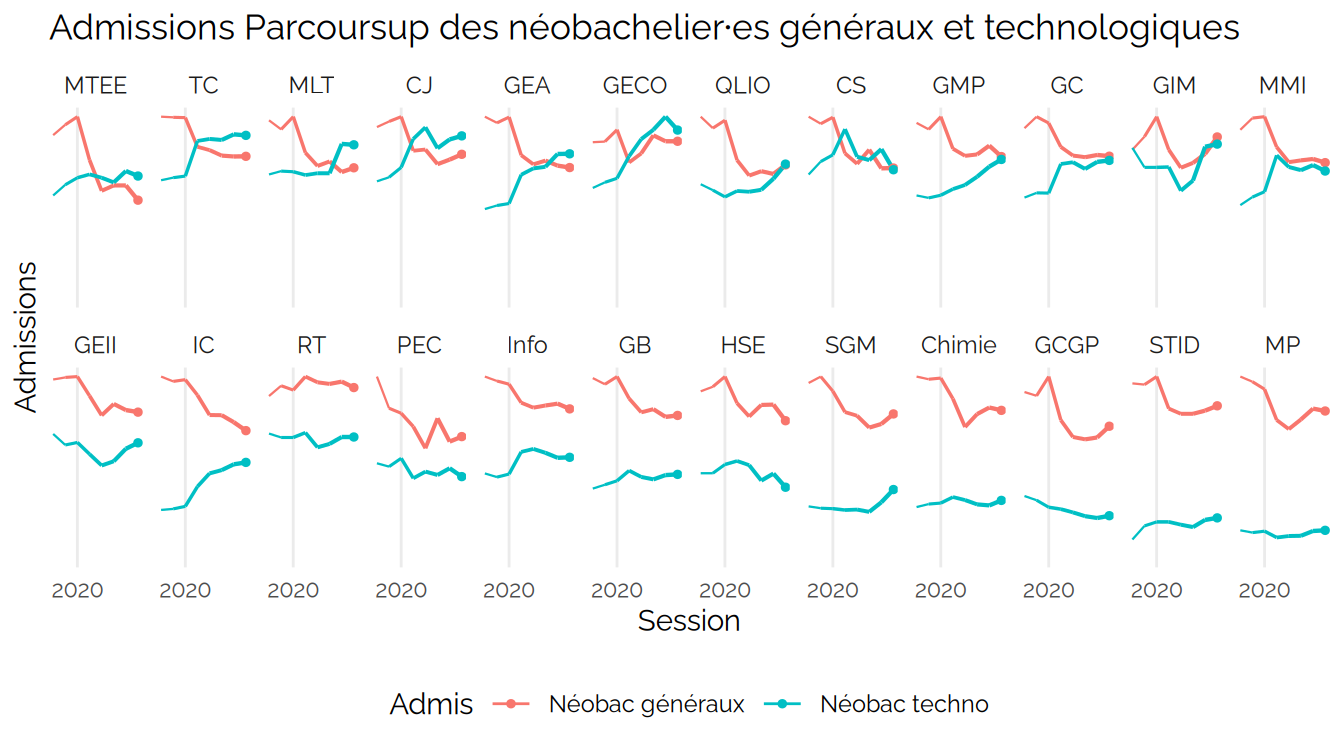
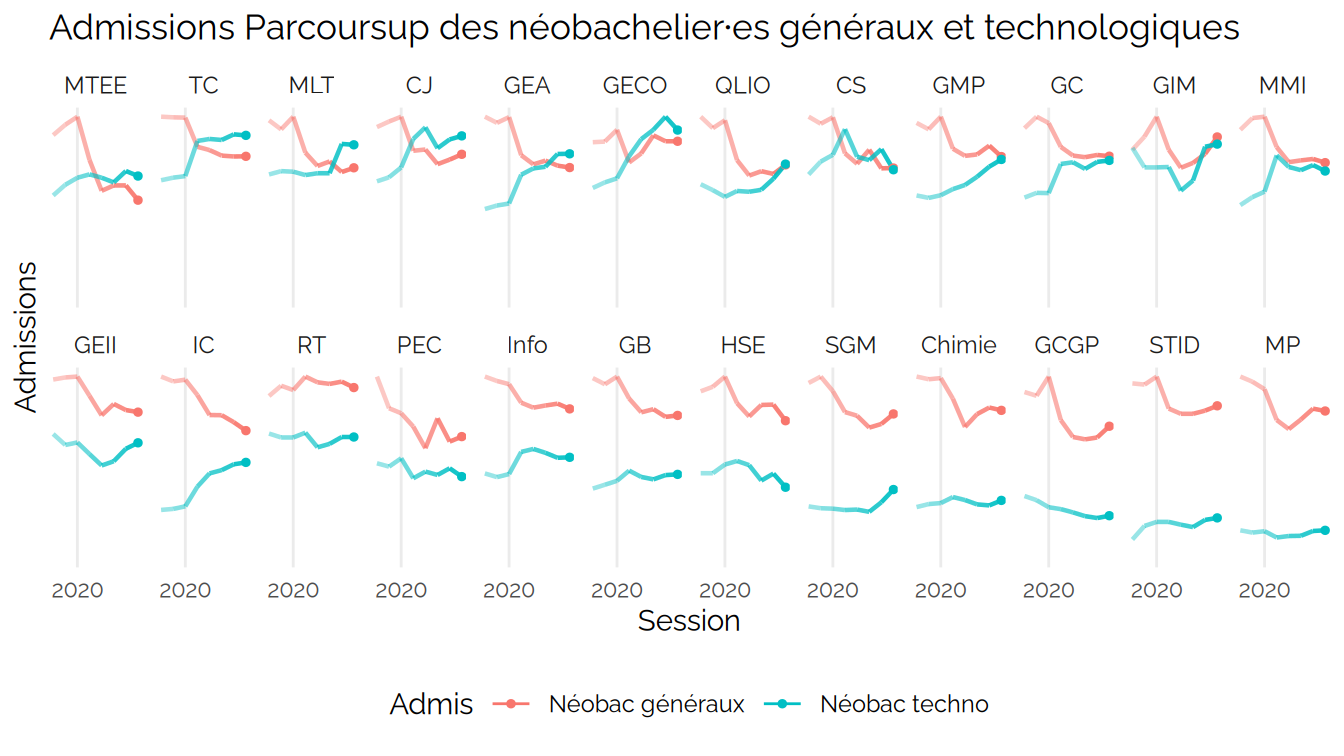
BUT

diff --git a/parcoursup/BUT.md b/parcoursup/BUT.md
@@ -1,7 +1,7 @@
 IUT DUT/BUT
 ================
 CPESR
-2026-06-11
[phone redacted]
 
 ## Données
 
@@ -78,3 +78,59 @@ CPESR
 <img src="BUT_files/figure-gfm/unnamed-chunk-8-1.png" width="672" />
 
 <img src="BUT_files/figure-gfm/unnamed-chunk-10-1.png" width="672" />
+
+## Places vs. Admis
+
+<img src="BUT_files/figure-gfm/unnamed-chunk-11-1.png" width="672" />
+
+<img src="BUT_files/figure-gfm/unnamed-chunk-12-1.png" width="672" />
+
+<img src="BUT_files/figure-gfm/unnamed-chunk-13-1.png" width="672" />
+
+<img src="BUT_files/figure-gfm/unnamed-chunk-14-1.png" width="672" />
+
+<img src="BUT_files/figure-gfm/unnamed-chunk-15-1.png" width="672" />
+
+<img src="BUT_files/figure-gfm/unnamed-chunk-16-1.png" width="672" />
+
+## Taux féminité
+
+<img src="BUT_files/figure-gfm/unnamed-chunk-17-1.png" width="672" />
+
+<img src="BUT_files/figure-gfm/unnamed-chunk-18-1.png" width="672" />
+
+<img src="BUT_files/figure-gfm/unnamed-chunk-19-1.png" width="672" />
+
+## Taux même académie
+
+<img src="BUT_files/figure-gfm/unnamed-chunk-20-1.png" width="672" />
+
+## Taux boursiers
+
+<img src="BUT_files/figure-gfm/unnamed-chunk-21-1.png" width="672" />
+
+### Taux rétension
+
+    ## `geom_smooth()` using method = 'loess' and formula = 'y ~ x'
+
+    ## Warning: Removed 7 rows containing non-finite outside the scale range
+    ## (`stat_smooth()`).
+
+    ## Warning: Removed 7 rows containing missing values or values outside the scale range
+    ## (`geom_point()`).
+
+<img src="BUT_files/figure-gfm/unnamed-chunk-22-1.png" width="672" />
+
+    ## `geom_smooth()` using method = 'loess' and formula = 'y ~ x'
+
+<img src="BUT_files/figure-gfm/unnamed-chunk-23-1.png" width="672" />
+
+    ## `geom_smooth()` using method = 'loess' and formula = 'y ~ x'
+
+    ## Warning: Removed 7 rows containing non-finite outside the scale range
+    ## (`stat_smooth()`).
+
+    ## Warning: Removed 7 rows containing missing values or values outside the scale range
+    ## (`geom_point()`).
+
+<img src="BUT_files/figure-gfm/unnamed-chunk-24-1.png" width="672" />